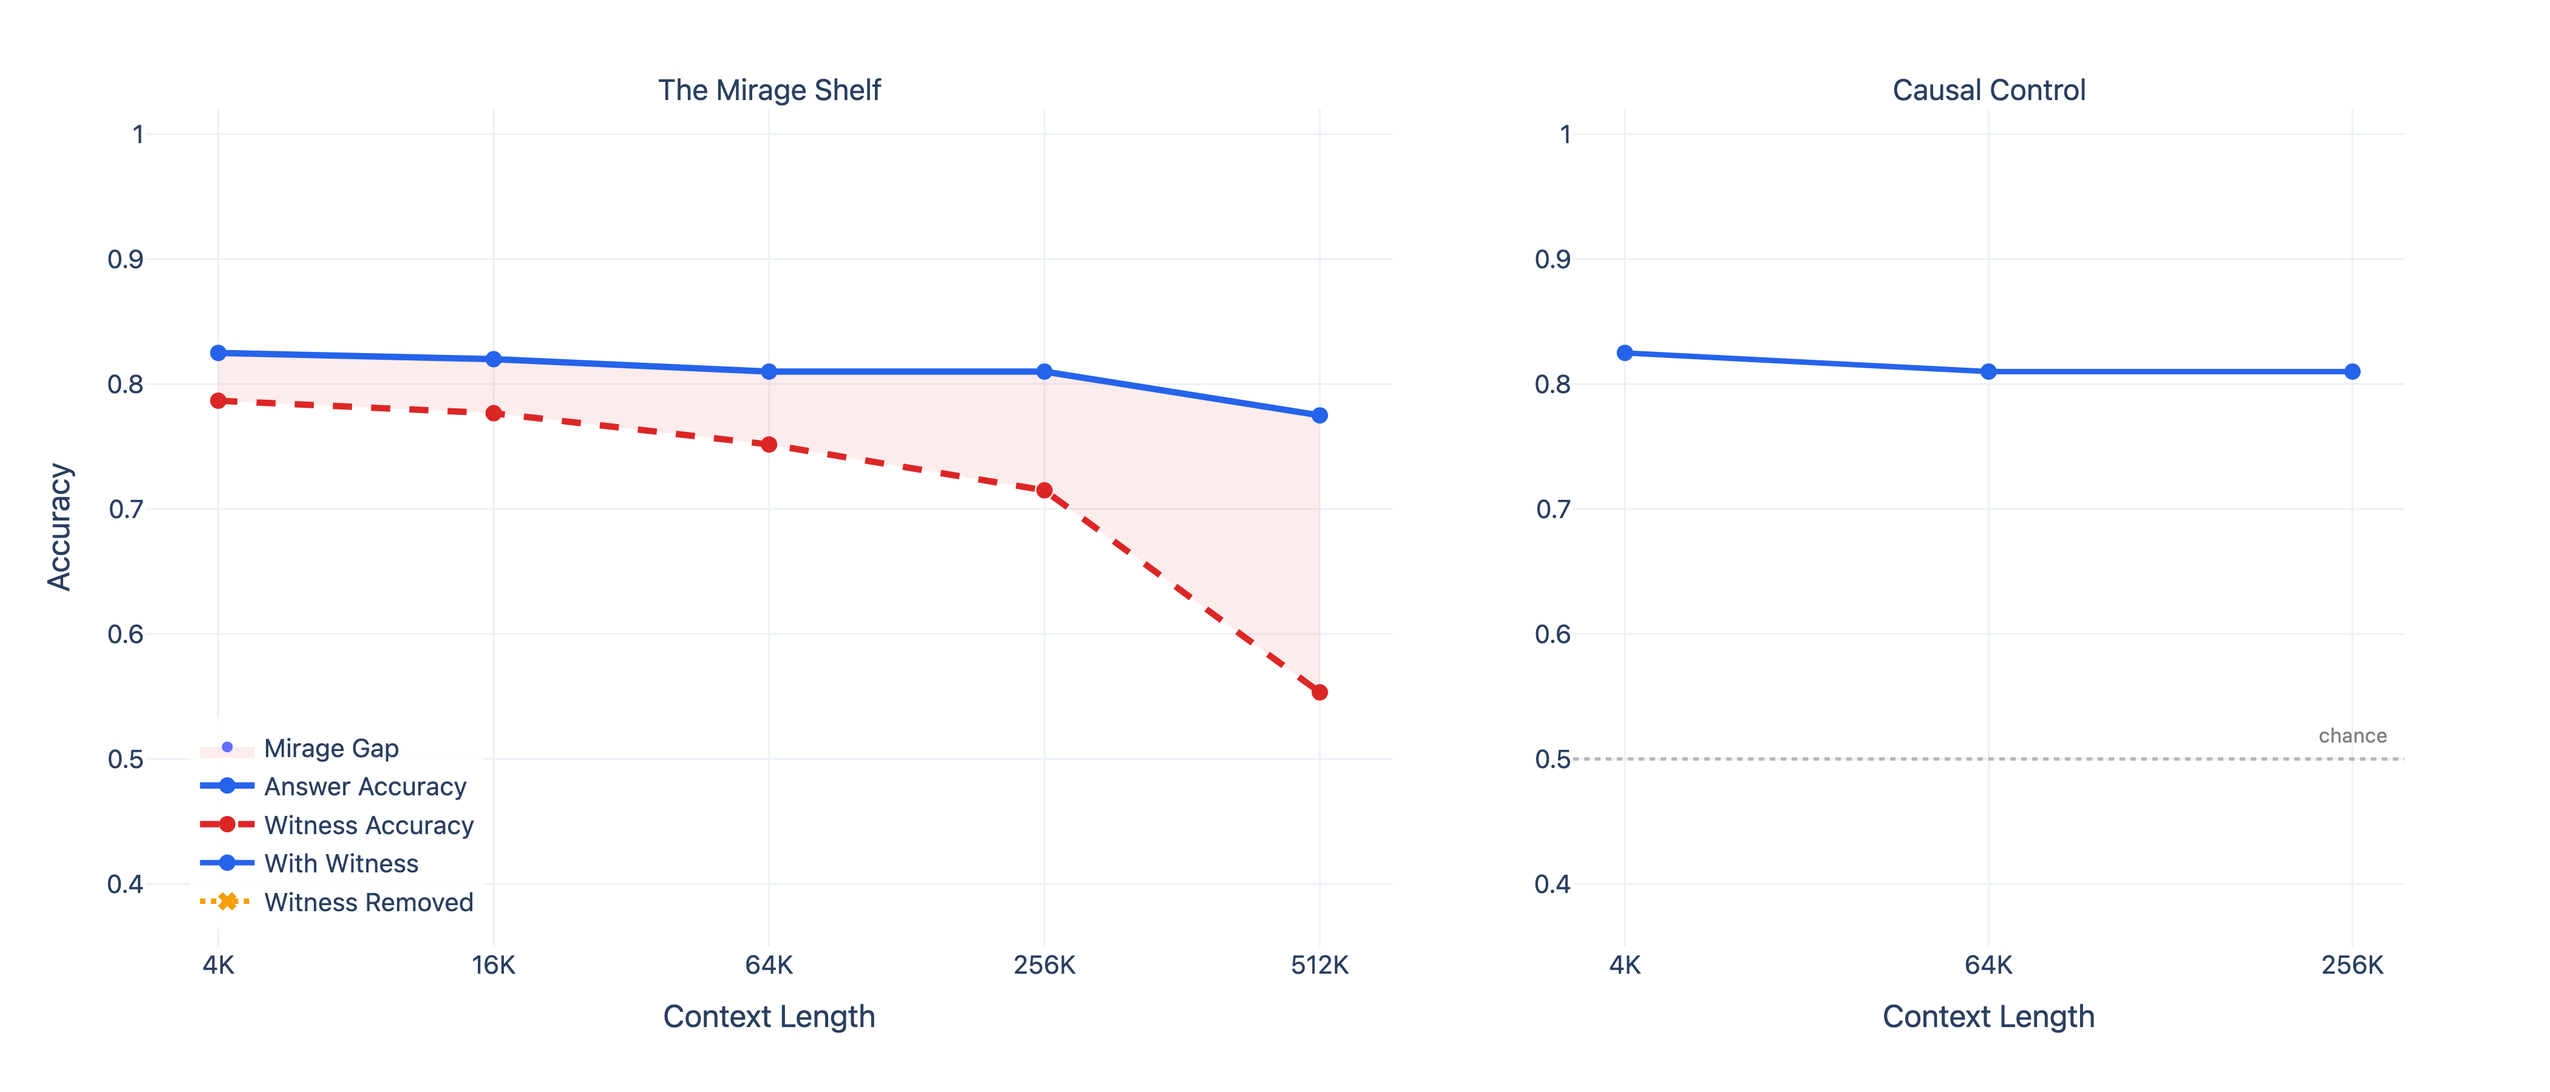
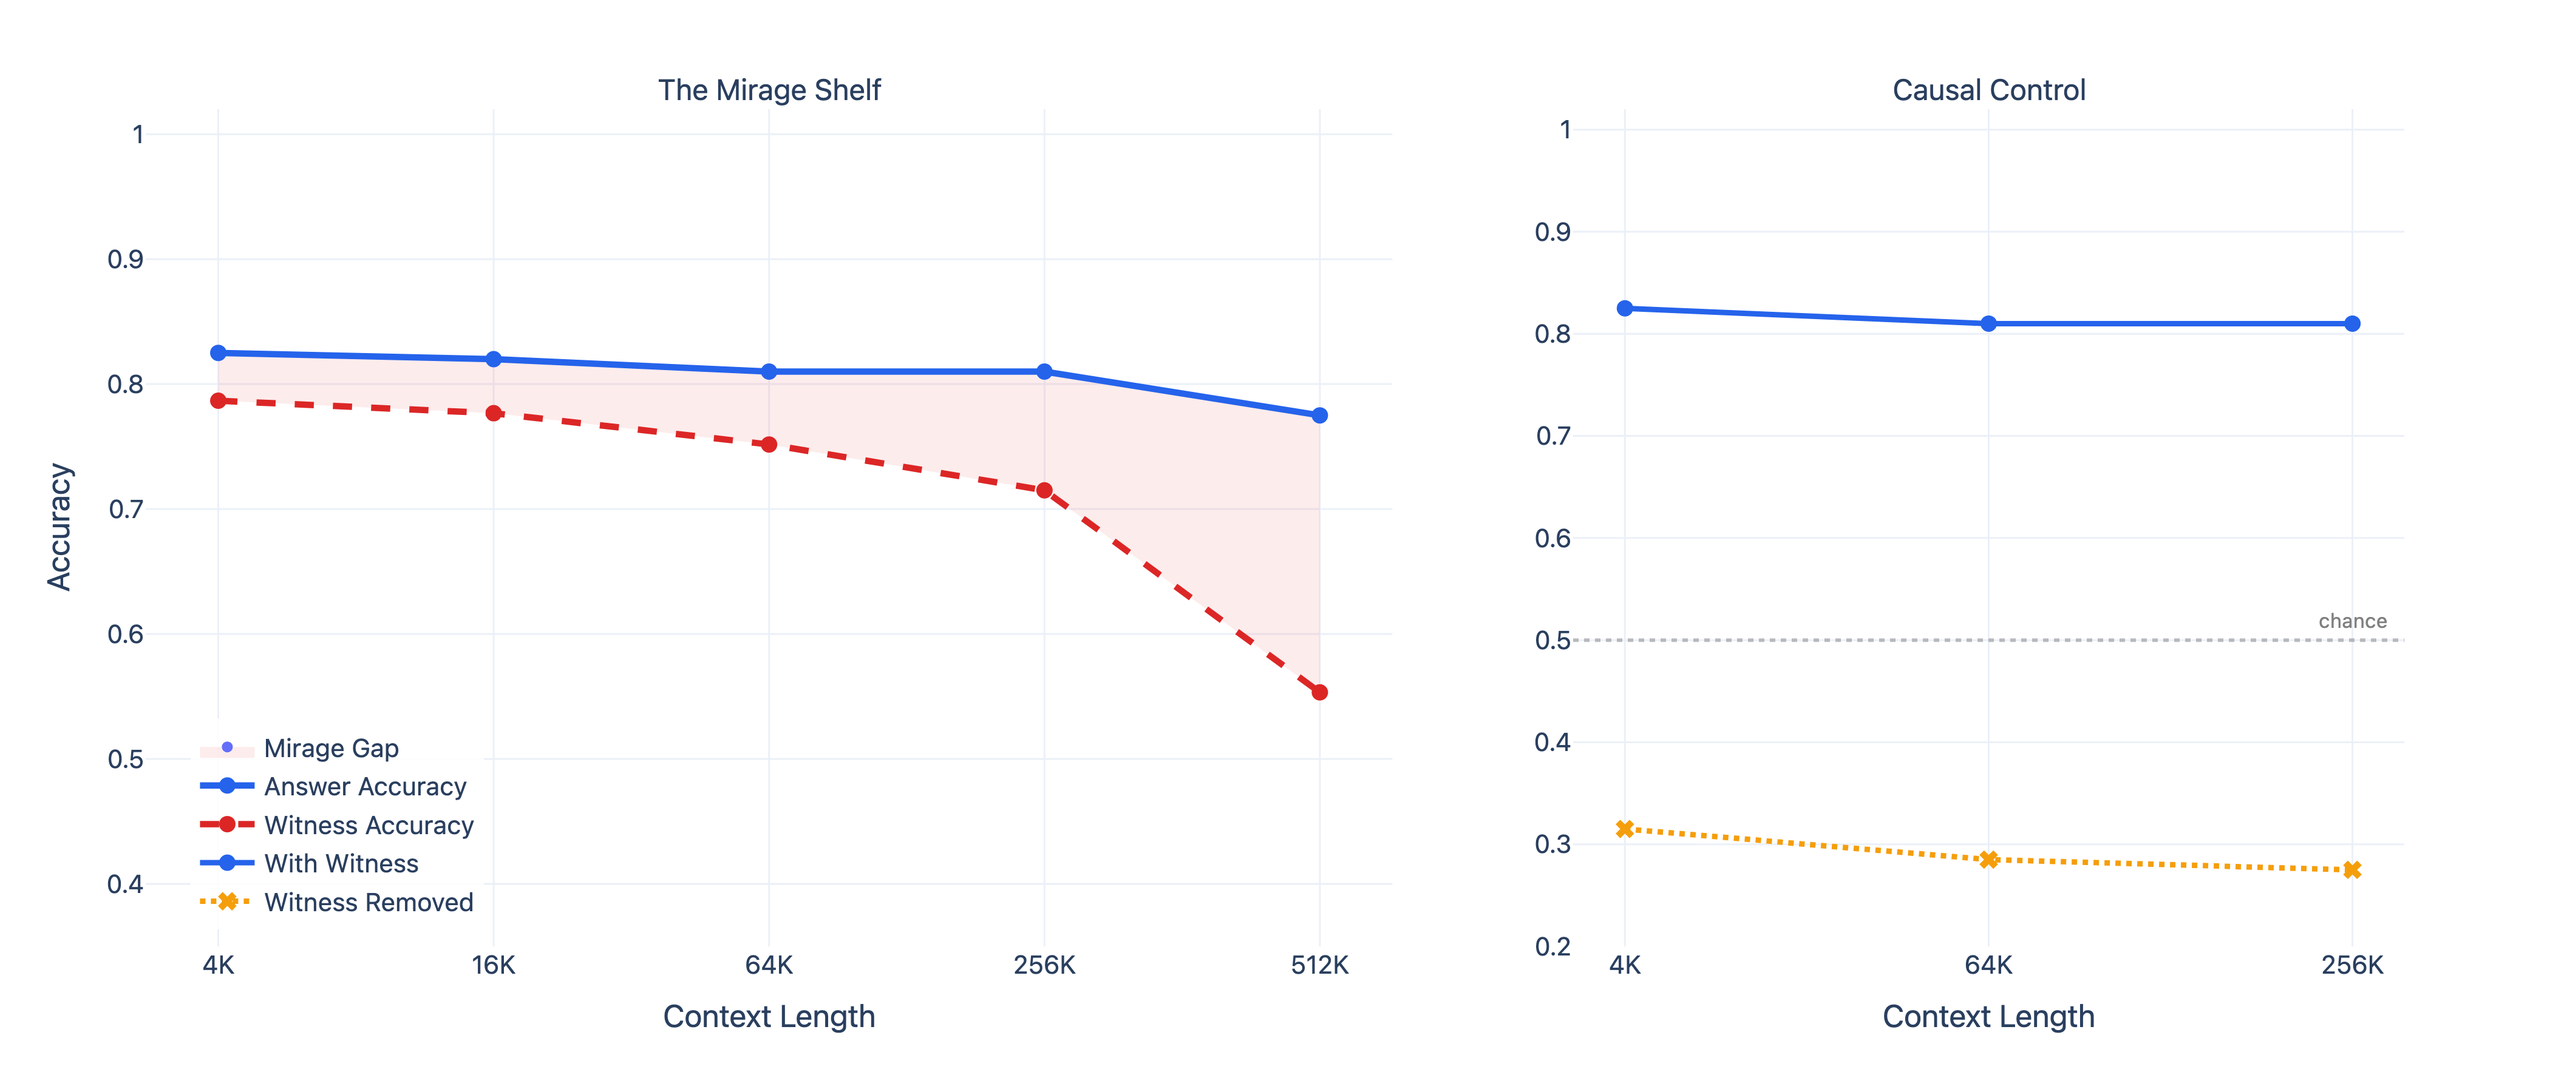
Fix public site audit issues

diff --git a/site/mirage-shelf-grok-2026-03.html b/site/mirage-shelf-grok-2026-03.html
@@ -18,15 +18,15 @@
     <meta property="og:title" content="Grok Mirage Shelf | The Validity Mirage" />
     <meta property="og:description" content="A 200-item Grok long-context experiment showing answer accuracy staying relatively stable while witness fidelity degrades sharply." />
     <meta property="og:url" content="https://dreams-dun.vercel.app/mirage-shelf-grok-2026-03" />
-    <meta property="og:image" content="https://dreams-dun.vercel.app/social-card.png" />
-    <meta property="og:image:alt" content="The Validity Mirage: full Grok mirage-shelf experiment and artifact bundle." />
+    <meta property="og:image" content="https://dreams-dun.vercel.app/results/mirage-shelf-grok-2026-03/mirage_shelf.png" />
+    <meta property="og:image:alt" content="March 2026 Grok mirage-shelf chart showing a widening answer-vs-witness gap and the below-chance witness-removed control." />
     <meta name="twitter:card" content="summary_large_image" />
-    <meta name="twitter:site" content="@J_C_Gaffney" />
-    <meta name="twitter:creator" content="@J_C_Gaffney" />
+    <meta name="twitter:site" content="@jackcgaffney" />
+    <meta name="twitter:creator" content="@jackcgaffney" />
     <meta name="twitter:title" content="Grok Mirage Shelf | The Validity Mirage" />
     <meta name="twitter:description" content="A 200-item Grok long-context experiment showing answer accuracy staying relatively stable while witness fidelity degrades sharply." />
-    <meta name="twitter:image" content="https://dreams-dun.vercel.app/social-card.png" />
-    <meta name="twitter:image:alt" content="The Validity Mirage: full Grok mirage-shelf experiment and artifact bundle." />
+    <meta name="twitter:image" content="https://dreams-dun.vercel.app/results/mirage-shelf-grok-2026-03/mirage_shelf.png" />
+    <meta name="twitter:image:alt" content="March 2026 Grok mirage-shelf chart showing a widening answer-vs-witness gap and the below-chance witness-removed control." />
     <link rel="icon" type="image/svg+xml" href="./favicon.svg" />
     <script>
       (function () {
@@ -75,7 +75,7 @@
       <div class="hero-links">
         <a class="hero-link" href="./">Overview <span class="link-arrow">&nwarr;</span></a>
         <a class="hero-link" href="./evidence.html">Evidence Dossier <span class="link-arrow">&nwarr;</span></a>
-        <a class="hero-link" href="/results/mirage-shelf-grok-2026-03/README.md" target="_blank" rel="noopener">Artifact Bundle <span class="link-arrow">&nearr;</span></a>
+        <a class="hero-link" href="https://github.com/jack-chaudier/dreams/tree/main/results/mirage-shelf-grok-2026-03" target="_blank" rel="noopener">Artifact Bundle <span class="link-arrow">&nearr;</span></a>
       </div>
     </header>
 
@@ -220,7 +220,7 @@
             <li><strong>Execution:</strong> xAI batch API with direct replay for <code>13</code> failed rows to produce a complete local output set</li>
           </ul>
           <div class="evidence-references evidence-repro-links" id="artifacts">
-            <a class="evidence-reference" href="/results/mirage-shelf-grok-2026-03/README.md" target="_blank" rel="noopener">Experiment README <span class="evidence-reference-arrow">&nearr;</span></a>
+            <a class="evidence-reference" href="https://github.com/jack-chaudier/dreams/blob/main/results/mirage-shelf-grok-2026-03/README.md" target="_blank" rel="noopener">Experiment README <span class="evidence-reference-arrow">&nearr;</span></a>
             <a class="evidence-reference" href="/results/mirage-shelf-grok-2026-03/manifest.json" target="_blank" rel="noopener">Manifest JSON <span class="evidence-reference-arrow">&nearr;</span></a>
             <a class="evidence-reference" href="/results/mirage-shelf-grok-2026-03/scores.json" target="_blank" rel="noopener">Scores JSON <span class="evidence-reference-arrow">&nearr;</span></a>
             <a class="evidence-reference" href="/results/mirage-shelf-grok-2026-03/scored_examples_sample.jsonl" target="_blank" rel="noopener">Scored sample <span class="evidence-reference-arrow">&nearr;</span></a>
@@ -255,7 +255,7 @@
         <a class="footer-link" href="./evidence.html">Evidence</a>
         <a class="footer-link" href="https://github.com/jack-chaudier/tropical-mcp" target="_blank" rel="noopener">tropical-mcp</a>
         <a class="footer-link" href="mailto:jackgaff@umich.edu">Correspondence</a>
-        <a class="footer-link" href="https://x.com/J_C_Gaffney" target="_blank" rel="noopener">X / updates</a>
+        <a class="footer-link" href="https://x.com/jackcgaffney" target="_blank" rel="noopener">X / updates</a>
       </div>
     </footer>
 

diff --git a/site/evidence.html b/site/evidence.html
@@ -18,15 +18,15 @@
     <meta property="og:title" content="Evidence &amp; Validation | The Validity Mirage" />
     <meta property="og:description" content="Evidence for the validity mirage research: deterministic replay witness, a full Grok mirage-shelf experiment, a portable certificate artifact, mirrored validation logs, and a precise reproduction path." />
     <meta property="og:url" content="https://dreams-dun.vercel.app/evidence" />
-    <meta property="og:image" content="https://dreams-dun.vercel.app/social-card.png" />
-    <meta property="og:image:alt" content="The Validity Mirage: evidence and validation for silent task drift under AI context compression." />
+    <meta property="og:image" content="https://dreams-dun.vercel.app/results/mirage-shelf-grok-2026-03/mirage_shelf.png" />
+    <meta property="og:image:alt" content="Evidence bundle chart for the March 2026 Grok mirage-shelf run, including the below-chance witness-removed control." />
     <meta name="twitter:card" content="summary_large_image" />
-    <meta name="twitter:site" content="@J_C_Gaffney" />
-    <meta name="twitter:creator" content="@J_C_Gaffney" />
+    <meta name="twitter:site" content="@jackcgaffney" />
+    <meta name="twitter:creator" content="@jackcgaffney" />
     <meta name="twitter:title" content="Evidence &amp; Validation | The Validity Mirage" />
     <meta name="twitter:description" content="Evidence for the validity mirage research: deterministic replay witness, a full Grok mirage-shelf experiment, a portable certificate artifact, mirrored validation logs, and a precise reproduction path." />
-    <meta name="twitter:image" content="https://dreams-dun.vercel.app/social-card.png" />
-    <meta name="twitter:image:alt" content="The Validity Mirage: evidence and validation for silent task drift under AI context compression." />
+    <meta name="twitter:image" content="https://dreams-dun.vercel.app/results/mirage-shelf-grok-2026-03/mirage_shelf.png" />
+    <meta name="twitter:image:alt" content="Evidence bundle chart for the March 2026 Grok mirage-shelf run, including the below-chance witness-removed control." />
     <link rel="icon" type="image/svg+xml" href="./favicon.svg" />
     <script>
       (function () {
@@ -156,7 +156,7 @@
               </ul>
               <div class="evidence-references">
                 <a class="evidence-reference" href="./mirage-shelf-grok-2026-03.html">Experiment page <span class="evidence-reference-arrow">&nwarr;</span></a>
-                <a class="evidence-reference" href="/results/mirage-shelf-grok-2026-03/README.md" target="_blank" rel="noopener">Experiment README <span class="evidence-reference-arrow">&nearr;</span></a>
+                <a class="evidence-reference" href="https://github.com/jack-chaudier/dreams/blob/main/results/mirage-shelf-grok-2026-03/README.md" target="_blank" rel="noopener">Experiment README <span class="evidence-reference-arrow">&nearr;</span></a>
                 <a class="evidence-reference" href="/results/mirage-shelf-grok-2026-03/scores.json" target="_blank" rel="noopener">Scores JSON <span class="evidence-reference-arrow">&nearr;</span></a>
                 <a class="evidence-reference" href="/results/mirage-shelf-grok-2026-03/scored_examples_sample.jsonl" target="_blank" rel="noopener">Scored sample <span class="evidence-reference-arrow">&nearr;</span></a>
               </div>
@@ -321,7 +321,7 @@ telemetry_summary(limit=5)   # review retention behavior</code></pre>
         <a class="footer-link" href="https://github.com/jack-chaudier/tropical-mcp" target="_blank" rel="noopener">tropical-mcp</a>
         <a class="footer-link" href="https://github.com/jack-chaudier/immortal-baby" target="_blank" rel="noopener">immortal-baby</a>
         <a class="footer-link" href="mailto:jackgaff@umich.edu">Correspondence</a>
-        <a class="footer-link" href="https://x.com/J_C_Gaffney" target="_blank" rel="noopener">X / updates</a>
+        <a class="footer-link" href="https://x.com/jackcgaffney" target="_blank" rel="noopener">X / updates</a>
       </div>
     </footer>
 

diff --git a/site/index.html b/site/index.html
@@ -15,15 +15,15 @@
     <meta property="og:title" content="The Validity Mirage | silent task drift under AI context compression" />
     <meta property="og:description" content="Research on the validity mirage: AI agents silently lose their governing task under memory compression while still producing confident answers. Papers, replay witness, and the tropical-mcp evaluation tool." />
     <meta property="og:url" content="https://dreams-dun.vercel.app/" />
-    <meta property="og:image" content="https://dreams-dun.vercel.app/social-card.png" />
-    <meta property="og:image:alt" content="The Validity Mirage: research on silent task drift under AI context compression." />
+    <meta property="og:image" content="https://dreams-dun.vercel.app/results/mirage-shelf-grok-2026-03/mirage_shelf.png" />
+    <meta property="og:image:alt" content="The Validity Mirage chart: answer accuracy stays relatively high while witness fidelity degrades from 4K to 512K context, with a below-chance witness-removed control." />
     <meta name="twitter:card" content="summary_large_image" />
-    <meta name="twitter:site" content="@J_C_Gaffney" />
-    <meta name="twitter:creator" content="@J_C_Gaffney" />
+    <meta name="twitter:site" content="@jackcgaffney" />
+    <meta name="twitter:creator" content="@jackcgaffney" />
     <meta name="twitter:title" content="The Validity Mirage | silent task drift under AI context compression" />
     <meta name="twitter:description" content="Research on the validity mirage: AI agents silently lose their governing task under memory compression while still producing confident answers. Papers, replay witness, and the tropical-mcp evaluation tool." />
-    <meta name="twitter:image" content="https://dreams-dun.vercel.app/social-card.png" />
-    <meta name="twitter:image:alt" content="The Validity Mirage: research on silent task drift under AI context compression." />
+    <meta name="twitter:image" content="https://dreams-dun.vercel.app/results/mirage-shelf-grok-2026-03/mirage_shelf.png" />
+    <meta name="twitter:image:alt" content="The Validity Mirage chart: answer accuracy stays relatively high while witness fidelity degrades from 4K to 512K context, with a below-chance witness-removed control." />
     <link rel="icon" type="image/svg+xml" href="./favicon.svg" />
     <script>
       (function () {
@@ -59,7 +59,7 @@
           "name": "Jack Chaudier Gaffney",
           "sameAs": [
             "https://github.com/jack-chaudier",
-            "https://x.com/J_C_Gaffney"
+            "https://x.com/jackcgaffney"
           ]
         }
       }
@@ -532,7 +532,7 @@ certificate(
         <a class="footer-link" href="https://github.com/jack-chaudier/tropical-mcp" target="_blank" rel="noopener">tropical-mcp</a>
         <a class="footer-link" href="https://github.com/jack-chaudier/immortal-baby" target="_blank" rel="noopener">immortal-baby</a>
         <a class="footer-link" href="mailto:jackgaff@umich.edu">Correspondence</a>
-        <a class="footer-link" href="https://x.com/J_C_Gaffney" target="_blank" rel="noopener">X / updates</a>
+        <a class="footer-link" href="https://x.com/jackcgaffney" target="_blank" rel="noopener">X / updates</a>
         <a class="footer-link" href="https://github.com/jack-chaudier" target="_blank" rel="noopener">GitHub</a>
       </div>
       <div class="paper-badges">

diff --git a/scripts/validate_artifacts.py b/scripts/validate_artifacts.py
@@ -393,14 +393,24 @@ def check_site_index_surface() -> None:
         {"source": "/evidence", "destination": "/site/evidence"} in rewrites,
         "vercel.json must route /evidence to site/evidence",
     )
-    _assert("social-card.png" in index_text, "site/index.html must use the PNG social card")
+    _assert(
+        "results/mirage-shelf-grok-2026-03/mirage_shelf.png" in index_text,
+        "site/index.html must use the public mirage-shelf chart for sharing metadata",
+    )
     _assert("twitter:image:alt" in index_text, "site/index.html must define twitter:image:alt")
     _assert("og:image:alt" in index_text, "site/index.html must define og:image:alt")
+    _assert("@jackcgaffney" in index_text, "site/index.html must use the live X handle")
+    _assert("J_C_Gaffney" not in index_text, "site/index.html must not reference the retired X handle")
     _assert("fonts.googleapis.com" not in index_text, "site/index.html must not depend on Google Fonts")
     _assert("fonts.gstatic.com" not in index_text, "site/index.html must not depend on Google Fonts")
-    _assert("social-card.png" in evidence_text, "site/evidence.html must use the PNG social card")
+    _assert(
+        "results/mirage-shelf-grok-2026-03/mirage_shelf.png" in evidence_text,
+        "site/evidence.html must use the public mirage-shelf chart for sharing metadata",
+    )
     _assert("twitter:image:alt" in evidence_text, "site/evidence.html must define twitter:image:alt")
     _assert("og:image:alt" in evidence_text, "site/evidence.html must define og:image:alt")
+    _assert("@jackcgaffney" in evidence_text, "site/evidence.html must use the live X handle")
+    _assert("J_C_Gaffney" not in evidence_text, "site/evidence.html must not reference the retired X handle")
     _assert("fonts.googleapis.com" not in evidence_text, "site/evidence.html must not depend on Google Fonts")
     _assert("fonts.gstatic.com" not in evidence_text, "site/evidence.html must not depend on Google Fonts")
     _assert("n=3" in evidence_text, "site/evidence.html must explain the replay witness denominator")
@@ -412,7 +422,10 @@ def check_site_index_surface() -> None:
         "mirage-shelf-grok-2026-03" in evidence_text,
         "site/evidence.html must link to the dedicated Grok experiment page",
     )
-    _assert("social-card.png" in experiment_text, "site/mirage-shelf-grok-2026-03.html must use the PNG social card")
+    _assert(
+        "results/mirage-shelf-grok-2026-03/mirage_shelf.png" in experiment_text,
+        "site/mirage-shelf-grok-2026-03.html must use the public mirage-shelf chart for sharing metadata",
+    )
     _assert(
         "twitter:image:alt" in experiment_text,
         "site/mirage-shelf-grok-2026-03.html must define twitter:image:alt",
@@ -420,6 +433,14 @@ def check_site_index_surface() -> None:
     _assert(
         "og:image:alt" in experiment_text,
         "site/mirage-shelf-grok-2026-03.html must define og:image:alt",
+    )
+    _assert(
+        "@jackcgaffney" in experiment_text,
+        "site/mirage-shelf-grok-2026-03.html must use the live X handle",
+    )
+    _assert(
+        "J_C_Gaffney" not in experiment_text,
+        "site/mirage-shelf-grok-2026-03.html must not reference the retired X handle",
     )
     _assert(
         "grok-4-1-fast-non-reasoning" in experiment_text,

diff --git a/results/mirage-shelf-grok-2026-03/mirage_shelf_experiment_v3.py b/results/mirage-shelf-grok-2026-03/mirage_shelf_experiment_v3.py
@@ -729,7 +729,7 @@ def cmd_plot(args):
                        font=dict(color="gray", size=11), row=1, col=2)
 
     fig.update_yaxes(range=[0.35, 1.02], row=1, col=1, title_text="Accuracy")
-    fig.update_yaxes(range=[0.35, 1.02], row=1, col=2)
+    fig.update_yaxes(range=[0.20, 1.02], row=1, col=2)
     fig.update_xaxes(title_text="Context Length", row=1, col=1)
     fig.update_xaxes(title_text="Context Length", row=1, col=2)
 

diff --git a/results/mirage-shelf-grok-2026-03/README.md b/results/mirage-shelf-grok-2026-03/README.md
@@ -48,7 +48,7 @@ Limitations: single model (Grok), synthetic items, and witness scoring is a lowe
 - `manifest.json` - experiment metadata and headline metrics
 - `scores.json` - full aggregate metrics
 - `mirage_shelf.png` - main public figure
-- `mirage_shelf_experiment_v3.py` - exact script used for the run
+- `mirage_shelf_experiment_v3.py` - run script snapshot used for the experiment, including the public chart visibility fix
 - `scored_examples_sample.jsonl` - compact public sample of representative scored examples
 
 ## Notes On Scope

diff --git a/README.md b/README.md
@@ -185,4 +185,4 @@ Open: `http://localhost:8080/site/`
 - Checksum refresh entry point: [`scripts/update_public_checksums.sh`](./scripts/update_public_checksums.sh)
 - Zenodo upload notes: [`README_ZENODO.md`](./README_ZENODO.md)
 - Correspondence: <mailto:jackgaff@umich.edu>
-- X / launch updates: <https://x.com/J_C_Gaffney>
+- X / launch updates: <https://x.com/jackcgaffney>

diff --git a/SUPPORT.md b/SUPPORT.md
@@ -18,4 +18,4 @@ Use the public artifacts first:
 
 For questions about collaboration, citation, or licensing, email <mailto:jackgaff@umich.edu>.
 
-For public launch updates and short-form research notes, see <https://x.com/J_C_Gaffney>.
+For public launch updates and short-form research notes, see <https://x.com/jackcgaffney>.
